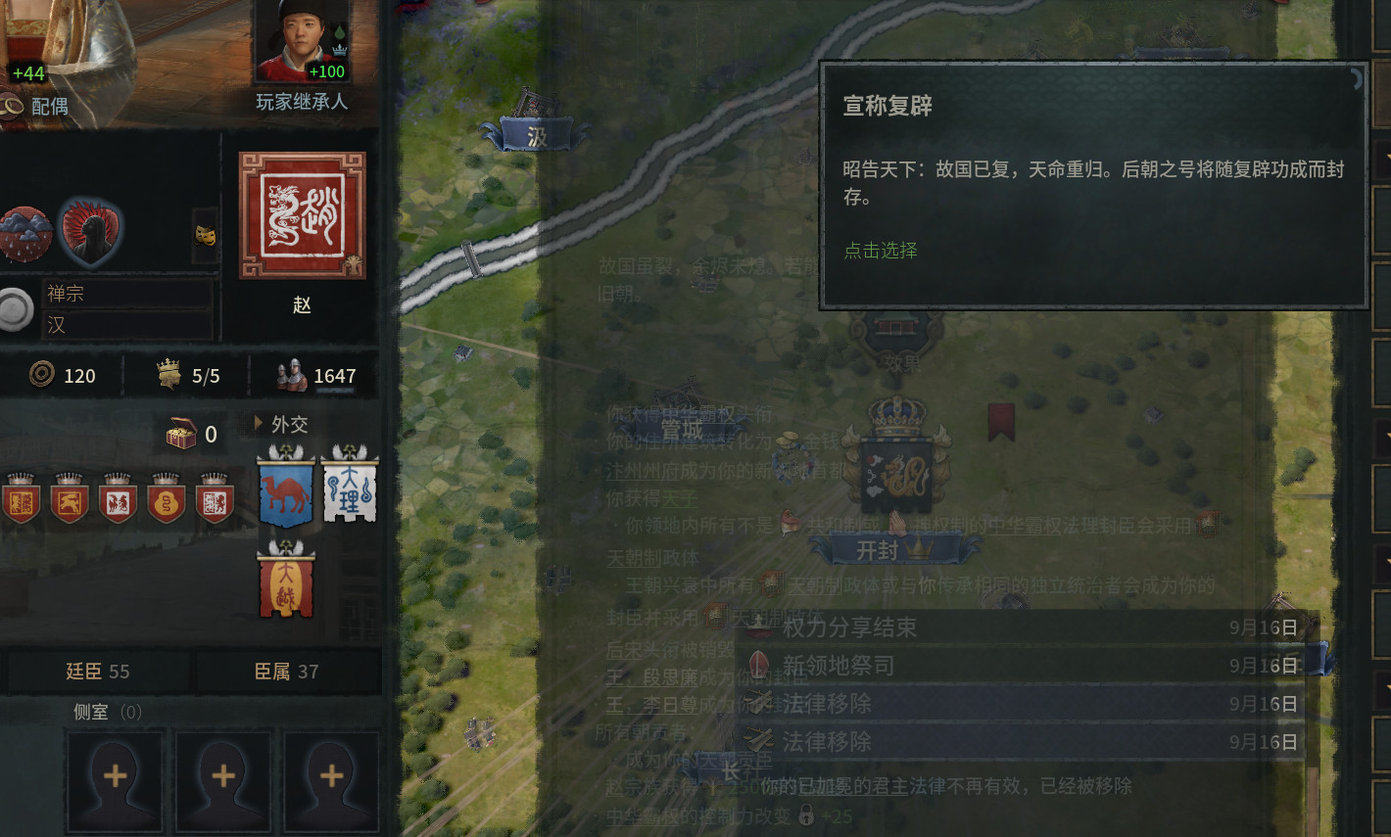
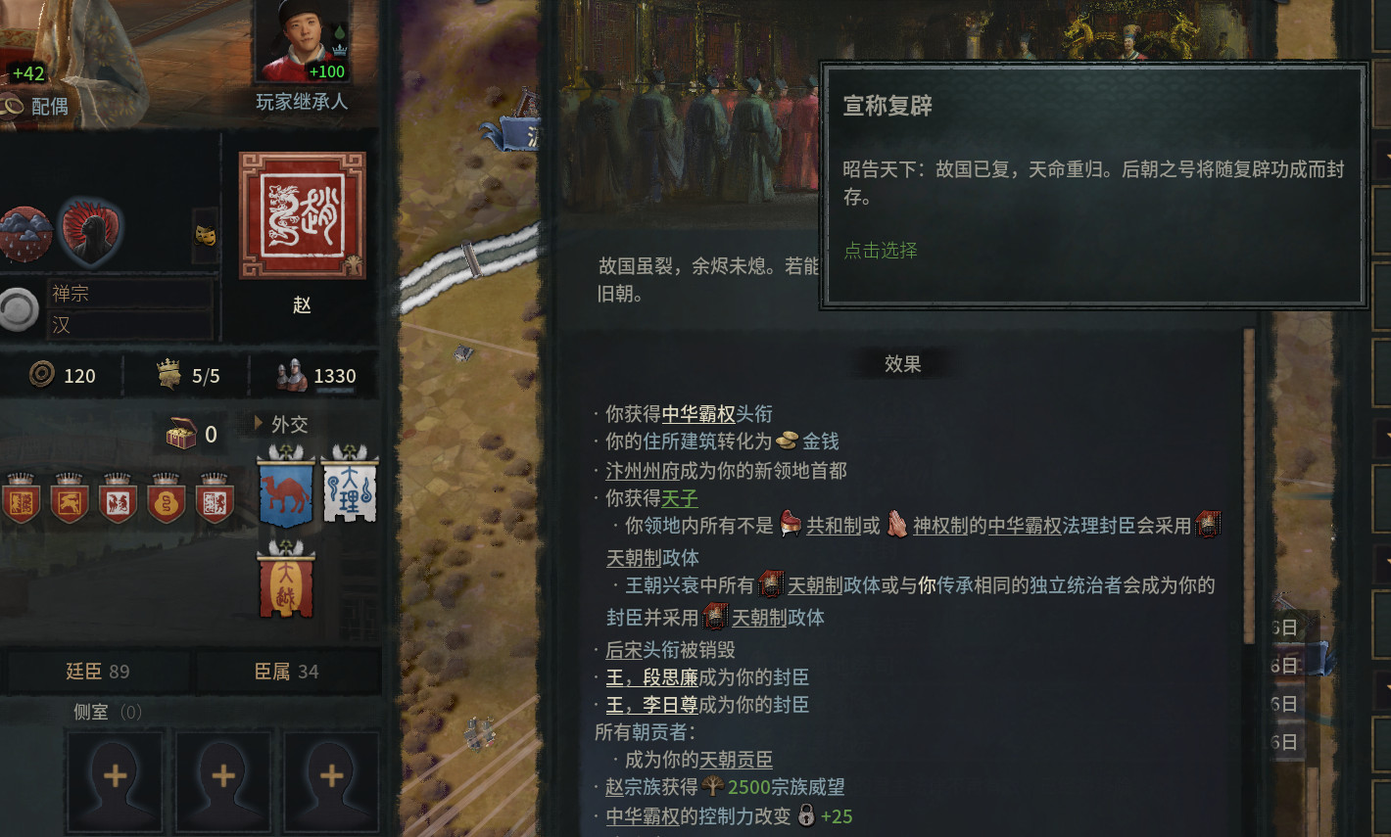
Record Phase 2 live acceptance media

diff --git a/mod_reclaim_the_motherland/docs/acceptance-report.md b/mod_reclaim_the_motherland/docs/acceptance-report.md
@@ -1,108 +1,105 @@
-# 重整河山 0.1.1 验收报告
+# 重整河山 0.2.0 验收报告
 
-状态：**COMPLETE；L0 GREEN、源码树 L1 GREEN、Workshop fresh-cache L3 GREEN，公开发布后复核通过。**
+状态：**Release Candidate。L0 GREEN，源码树 L1 GREEN；Workshop fresh-cache L3 等待 0.2.0 上传后执行。**
 
-验收日期：2026-09-09  
-目标游戏：CK3 `1.19.0.6`  
+验收日期：2026-09-13
+
+目标游戏：CK3 `1.19.0.6`
+
 产品：`mod_reclaim_the_motherland`
 
-## 1. 结论
+Workshop item：`3798404599`
 
-源码树已经通过独立构建、静态合同与真实 CK3 全链验收。MCP-first 实机 run 从 1066 年宋帝出发，实际切入群雄割据、触发原版 `tgp_dynastic_cycle.0081`，证明后宋的动态名称与空法理头衔、旧天子的个人领地、尊王派直属封臣及其下级 realm tree 均被保留；非尊王派直属封臣脱离。随后在精确 50%/51% 控制边界验证“宣称复辟”，并由真实决议 UI 证明“宣称复辟”可用而原“宣称天命”不可见。执行决议后完整原版天命效果生效，且复辟者持有的后朝霸权被额外销毁。
+## 1. 当前结论
 
-版本 `0.1.1` 已上传到独立 Workshop item `3798404599`，全新订阅缓存完成 28/28 严格核对，并从该缓存执行相同的 MCP-first 实机矩阵取得 19/19 GREEN。三张宣传截图来自这次 GREEN run；地图镜头由原生 MCP 精确定位到大宋首都开封，而非意大利或其他错误区域。Workshop 页面已经公开、登记《溥天之下 / All Under Heaven》为必需 DLC，并通过 Steam 匿名接口复核可见性。
+二期机制已在真实 CK3 中完整跑通：默认【人心离散】会在群雄割据前冻结尊王派直属诸侯的一次性抉择；必留忠臣保留原主头衔、国号、直属关系和完整下级封臣树，必叛诸侯按原版流程脱离。玩家随后能看见【人心向背】总结，并继续完成一期的后宋、51% 门槛、【宣称复辟】和后朝销毁全链。
 
-## 2. L0：静态、合同与可复现构建
+最终源码树 run 为 `desktop-3fevhd2-1c74096080--reclaim-the-motherland--R0004`。wrapper/cell 均为 `GREEN`，20 个顺序标记全部出现，项目 diagnostics 为 0；source/runtime、保护存储均未被改写，隔离 userdir 已删除，CK3 进程树已回收。
 
-执行结果：
+0.2.0 的正式发布闭环尚差两项：上传正式 staging，以及从全新 Workshop 订阅缓存执行同矩阵 L3。完成后本报告将补入发布回执、缓存 manifest 和最终 L3 run。
 
-- `py tools/test_reclaim_the_motherland_contract.py`：12/12 GREEN。
-- `py tools/validate_reclaim_the_motherland_static.py`：GREEN；28 个 release 运行时文件、9 种语言、每种 102 个 key、8 个玩法脚本。
-- `py tools/test_build_reclaim_the_motherland_release.py`：10/10 GREEN。
[2 lines of base64/hex data omitted]
+## 2. 机制断言
 
-九语发布审阅记录见 `docs/reclaim-release-localization-review-2026-09-09.md`。七种新增语言以 MiniMax-M3 最小 key-value 候选为起点，并由当前执行者逐条修正语义、术语、格式和保护 token；这不冒充母语译者认证。
+- 规则【尊王诸侯的抉择】默认【人心离散】；【誓死尊王】保留一期全员留朝行为。
+- 候选人是裂解瞬间直属、有地、伯爵级以上且具有冻结尊王派身份的封臣。
+- 战争、深仇、不忠、极低好感和针对旧天子的独立/宣称者派系构成必叛条件；明确羁绊构成必留条件；公开决裂优先。
+- 其他 AI 诸侯按冻结事实计算 5%—95% 留朝概率并只结算一次；人类诸侯采用相同因素及公开的 50 分确定性分界。
+- 留朝者不进入独立、弱势王/帝头衔裁剪、改国号或重新归属分支；其原 title object、显示/自定义名称、直属关系及 realm subtree 保持不变。
+- 叛者和原本不属尊王派的直属封臣继续按原版群雄割据逻辑运转。
+- 【人心向背】总结事件在结算后立即显示，列出代表性留朝者与反叛者。
+- 一期回归项全部继续成立：旧天子保留个人领地与其他头衔，取得空法理后朝霸权；后朝持有者看不到【宣称天命】；50% 不足、51% 达标；【宣称复辟】执行原版天命效果并额外销毁后朝霸权。
 
-## 3. open_kaishek 离线预验边界
+## 3. L0：静态、合同与可复现构建
 
-- open_kaishek commit：`33d690234d8217422978ee642055ab1b13e44c76`
[1 lines of base64/hex data omitted]
+在 commit `a496d9fc` 的最终源码树执行：
+
+- `tools/test_reclaim_the_motherland_contract.py`：13/13 GREEN；另有 1 项因 detached worktree 不含被忽略的原版游戏副本而显式 skip。
+- `tools/validate_reclaim_the_motherland_static.py`：GREEN；32 个发布运行时文件、9 种语言、每种 112 个本地化键、12 个玩法脚本。
+- `tools/test_build_reclaim_the_motherland_release.py`：10/10 GREEN。
[1 lines of base64/hex data omitted]
+
+正式 tag 会改变 manifest 内嵌的 Git identity，因此正式发布哈希以发布 changelog 为准。
+
+## 4. open_kaishek 离线预验
+
+- commit：`890b32de49081b7b5510e40c5518dfb59d5c8a6d`
+- CLI contract：`b306a95`
[1 lines of base64/hex data omitted]
 - profile：`ck3-1.19.0.6`
[3 lines of base64/hex data omitted]
-- 命名 fixture 尚不被当前 CLI 识别；validator/IR/finite-runtime 也没有覆盖本 mod 动态头衔、封臣转移和决议语义的 profile。因此这些项诚实记录为 `not-applicable / cli-red`，没有被当成产品 RED，也没有替代 CK3 实机。
[2 lines of base64/hex data omitted]
+- validator 分别返回 880/311 个 `UNKNOWN`。当前 profile 不覆盖动态头衔、封臣重组和决议语义，因此诚实归类为 `not-applicable / cli-red`；parser 结果只作确定性预检，不替代 CK3 实机。
 
-## 4. L1：源码树 MCP-first 实机
+## 5. L1：源码树 MCP-first 实机
 
-GREEN run：
+Run：`D:\workspace\ck3_reclaim_phase2_20260913_process_assets\reclaim\runs\desktop-3fevhd2-1c74096080--reclaim-the-motherland--R0004-source`
 
-`D:\workspace\ck3_reclaim_the_motherland_design_process_assets\reclaim\runs\rqa_20260909_114834_32f85232`
+- execution ID：`ee251056-c718-44ed-ba92-6b3dd3b3ee8b`
[6 lines of base64/hex data omitted]
+- 总时长：772.984 秒；CK3 排他槽等待 0.102 秒。
[2 lines of base64/hex data omitted]
 
-主要身份与完整性：
+关键证据：
 
[5 lines of base64/hex data omitted]
-- 总时长 723.141 秒；CK3 排他槽等待 0.131 秒。
-- MCP readiness GREEN；关键事件均以 MCP 暂停快照与语义化 event-option selection 操作，不依赖坐标点击猜测。
-- 19/19 fixture markers 通过；项目相关 diagnostics 为 0。
-- source/runtime 在运行中均未改写；保护存储未变化；原生进程树回收已证明；隔离 userdir 已删除。
[7 lines of base64/hex data omitted]
 
-19 个标记覆盖：精确宋帝、真实封臣树、规则启用、真实阶段切换、原运动身份冻结、原版群雄事件分派、后朝空法理与个人领地保留、尊王派直属与下级树保留、非尊王派直属脱离、50% 不足、51% 达标、复辟决议就绪、完整原版效果与后朝销毁。
+## 6. 保留的 RED 与修正
 
-关键屏幕与机器可读证据：
+- `R0001`：忠臣国号/头衔/封臣树和叛者脱离已经通过，但延时总结事件丢失父事件 scope。修正为在同一结算链即时排入 `rmtm.1001`。
+- `R0002`：完整玩家链通过，但 AI 普通候选人的同链变量读取在 tooltip evaluation 中产生错误。修正为先冻结叛乱结果，再通过单个 `random` 原子地改为留朝，消除顺序变量依赖。
+- `R0003`：机制 GREEN；人工审图发现验收抽屉和带头衔人名影响宣传呈现。后续仅调整裁切及总结人名，最终结论由 `R0004` 取代。
 
[3 lines of base64/hex data omitted]
+失败 attempt 均永久保留，没有覆盖为 GREEN。
 
-## 5. 保留的 RED 证据与修正
+## 7. 四张真实游戏素材
 
-失败 attempt 均保留在相同 `runs` 根目录，没有覆盖成 GREEN。代表性问题包括：动态头衔曾只显示前缀或夹具按旧乱码字面量判断；修正为 89 个原版标准朝号的确定性组合 key，并让夹具断言 Unicode“后宋”。另一次 `non_pro_hegemon_direct_released` RED 来自夹具随机抽到男爵，而产品设计本就让结构性男爵跟随伯爵领主；夹具现只选择伯爵及以上的真实直属参与者。上述修正后获得本报告的 19/19 GREEN。
+四张 JPEG 都由 `R0004` 的真实 CK3 画面确定性裁切和编码，没有生成或改写游戏内容：
 
-## 6. Workshop fresh-cache L3
+| 文件 | 尺寸 | bytes | SHA-256 |
+| --- | --- | ---: | --- |
[4 lines of base64/hex data omitted]
 
-发布身份：
+## 8. L3：Workshop fresh-cache
 
-- Workshop item ID：`3798404599`
-- 公开页面：`https://steamcommunity.com/sharedfiles/filedetails/?id=3798404599`
-- 公开版本：`0.1.1`
[2 lines of base64/hex data omitted]
-- Workshop 缓存：`D:\Program Files (x86)\Steam\steamapps\workshop\content\1158310\3798404599`
-- 缓存按 ID-bearing manifest 严格核对：28/28 GREEN。
-- 上传成功日志：`C:\Users\1\AppData\Local\Paradox Interactive\launcher-v2\logs\launcher-2026-09-09.log`；2026-09-09 10:30:57 开始、10:31:05 成功。
-- 上传后正式 staging 已重建；内层 `descriptor.mod` 不含 `remote_file_id`，item ID 只保留在外层 launcher descriptor 与发布记录中。
+等待 0.2.0 正式上传。发布后必须完成：
 
-最终 GREEN run：
-
-`D:\workspace\ck3_reclaim_the_motherland_design_process_assets\reclaim\runs\rqa_workshop_20260909_1952_capital_3798404599_v011`
-
[2 lines of base64/hex data omitted]
-- 结果：wrapper/cell 均为 `GREEN`；19/19 markers；项目 diagnostics 为 0；总时长 878.326 秒；CK3 槽位等待 0.165 秒。
[1 lines of base64/hex data omitted]
-- source/runtime、受保护存储均未改写；CK3 进程树已受控回收；隔离 userdir 已清理。
-- “保留个人领地”不是宽松的 top-liege 推断：fixture 对原直辖伯爵领逐个执行 `holder = root` 严格断言。产品分支只销毁 `h_china`、不执行 `force_step_down_landed_titles`，并把旧天子排除在弱势王/帝头衔裁剪之外。
-
-大宋首都镜头证据：
-
-- 原生 MCP `ck3_center_map_on_landed_title_v1` 以 `b_kaifeng` 为目标；title ID `13949`、capital province `9822`。
-- 相机 target/current 均为 `[6836.0, 0.0, 2619.0, 174.0, 1.082104..., 0.0]`；`settled=true`、`postcondition_verified=true`、`target_write_blocked=false`。
[2 lines of base64/hex data omitted]
-- 保留的 RED attempt `rqa_workshop_20260909_1940_capital_3798404599_v011` 是 OCR 词表未接纳“管城县”的 harness RED；它没有被覆盖，也没有被用作商店素材。
-
-Workshop 页面复核：
-
[1 lines of base64/hex data omitted]
-- 三张 media strip 均来自上述 GREEN run，按“后宋立于开封 → 宣称复辟就绪 → 复辟诏告与效果”上传；文件和来源哈希见 `workshop/reclaim_the_motherland_screenshots.md`。
-- Steam 匿名 `GetPublishedFileDetails` 在 2026-09-09 21:54（Asia/Shanghai）返回 `result=1`、`visibility=0`、标题 `Reclaim the Motherland — 重整河山`、consumer app `1158310`。
[2 lines of base64/hex data omitted]
-
[1 lines of base64/hex data omitted]
+1. 匿名公开接口复核 item `3798404599` 的标题、公开可见性、描述、文件和更新时间。
+2. 对公开 Change Notes 作逐字符、逐行、SHA-256 精确回读。
+3. 从全新订阅缓存按正式 manifest 做 32/32 严格核对。
+4. 从该缓存运行同一 MCP-first CK3 矩阵；只有 L3 GREEN 后才把 0.2.0 标记为正式完成。

diff --git a/workshop/reclaim_the_motherland_screenshots.md b/workshop/reclaim_the_motherland_screenshots.md
@@ -1,49 +1,44 @@
-# 重整河山：Steam 实机截图清单
+# 重整河山 0.2.0：Steam 实机截图清单
 
-状态：三张图均来自同一次 **GREEN 的 CK3 1.19.0.6 Workshop fresh-cache MCP-first 验收**，已完成确定性裁切、人工逐张视觉检查，并按本清单顺序上传到公开 Steam media strip。
+状态：四张候选图均来自同一次 **GREEN 的 CK3 1.19.0.6 源码树 MCP-first 验收**，已完成确定性裁切和逐张视觉检查；等待 0.2.0 上传后作为公开页面素材复核。
 
 ## 权威来源
 
 - Workshop item ID：`3798404599`
 - 页面：`https://steamcommunity.com/sharedfiles/filedetails/?id=3798404599`
-- Run：`D:\workspace\ck3_reclaim_the_motherland_design_process_assets\reclaim\runs\rqa_workshop_20260909_1952_capital_3798404599_v011`
[2 lines of base64/hex data omitted]
-- 结果：wrapper/cell 均为 `GREEN`；19/19 fixture markers；项目 diagnostics 为 0；source/runtime 和保护存储未改写；CK3 进程树已受控回收。
+- Run ID：`desktop-3fevhd2-1c74096080--reclaim-the-motherland--R0004`
+- Run：`D:\workspace\ck3_reclaim_phase2_20260913_process_assets\reclaim\runs\desktop-3fevhd2-1c74096080--reclaim-the-motherland--R0004-source`
[2 lines of base64/hex data omitted]
+- 结果：wrapper/cell 均为 `GREEN`；20 个顺序标记全部出现；项目 diagnostics 为 0；source/runtime 和保护存储未改写；CK3 进程树已受控回收。
 - 游戏：CK3 `1.19.0.6`
[1 lines of base64/hex data omitted]
 - 投影脚本：`tools/compose_reclaim_the_motherland_workshop_media.py`
 
 ## 大宋首都镜头门禁
 
-商店素材不使用快捷键猜测，也不从错误地图后期裁切。进入群雄割据、关闭验收窗口后，runner 通过原生 MCP `ck3_center_map_on_landed_title_v1` 把镜头定位到 `b_kaifeng`：
+素材不使用快捷键猜测，也不从错误地图区域后期伪造。runner 通过原生 MCP `ck3_center_map_on_landed_title_v1` 将镜头定位到 `b_kaifeng`，并保存机器可读证据：
 
-- MCP 返回 `accepted=true`、`title.key=b_kaifeng`、`anchor_kind=title_bounds_center`、`capital_province_id=9822`。
-- 相机目标为 `[6836.0, 0.0, 2619.0]`；`current_state == target_state`、`settled=true`、`postcondition_verified=true`、`target_write_blocked=false`。
[2 lines of base64/hex data omitted]
-- 视觉辅证命中开封周边“管城县”，且“教宗 / 教宗国 / 意大利 / 罗马 / 那波利 / 萨莱诺”均未出现；“验收”字样也未出现。
-- composer 会重新读取 wrapper GREEN 与上述 MCP/视觉证据；任一条件失败即拒绝生成三张 JPG。
[2 lines of base64/hex data omitted]
+- MCP 回执证明 target/current 已收敛且 `settled=true`、`postcondition_verified=true`、`target_write_blocked=false`。
+- composer 会重新读取 GREEN wrapper 和镜头证据；门禁失败即拒绝生成 JPG。
 
-保留的 RED attempt `rqa_workshop_20260909_1940_capital_3798404599_v011` 已证明 MCP 实际成功定位开封，但首版只接受“开封/汴州”文字；详细地图层级渲染“管城县”导致它按设计失败。该 run 不用于商店素材，也未被覆盖或删除。
-
-## 上传顺序
+## BBCode 与 media strip 顺序
 
 | 顺序 | 仓库文件 | 原始实机画面 | 裁切框 | 尺寸 | JPEG bytes | SHA-256 | 中英文说明 |
 | --- | --- | --- | --- | --- | ---: | --- | --- |
[7 lines of base64/hex data omitted]
 
 ## 真实性与使用边界
 
-三张 JPEG 只做裁切和有损编码，没有生成或改写游戏内容。第一张同时显示“后宋”主头衔和开封地图；第二、三张裁掉验收专用决议组，只保留普通玩家能见到的产品决议 UI。生成的主视觉只用于 `thumbnail.png`，不冒充实机截图。
+四张 JPEG 只做裁切和有损编码，没有生成或改写游戏内容。首图显示正式产品事件【人心向背】，且裁掉验收抽屉与测试通知；第二张同时显示后宋人物和开封地图；第三、四张只保留普通玩家可见的决议 UI。生成式主视觉只用于 `thumbnail.png`，不冒充实机截图。
 
-Workshop BBCode 使用 commit-pinned GitHub raw URL；Steam 页面另将本表三张 JPEG 作为独立 media strip 按顺序上传。公开页面的媒体条依次显示后宋与开封、宣称复辟决议、复辟确认画面。
+Workshop BBCode 必须使用 commit-pinned GitHub raw URL；Steam media strip 按本表顺序上传或复核。所有中英文文案统一使用《溥天之下 / All Under Heaven》。
 
 ## 发布证据
 
-- 页面公开可见性：2026-09-09 21:54（Asia/Shanghai）已复核；Steam 匿名接口返回 `result=1`、`visibility=0`。
[2 lines of base64/hex data omitted]
-- 页面 BBCode：与 `workshop/reclaim_the_motherland_description.bbcode` 一致，三张内嵌图固定到 commit `851b493aecd936e64db5c3d4aa0d02d0de9c05fb`，且中英文产品名统一使用“溥天之下 / All Under Heaven”。
+0.2.0 尚未上传。正式发布后在此补充：上传回执、公开页面/API 复核、四张素材公开可见证据、必需 DLC 复核，以及 fresh-cache L3 run。

diff --git a/mod_reclaim_the_motherland/README.md b/mod_reclaim_the_motherland/README.md
@@ -1,6 +1,6 @@
 # 重整河山：设计与实现说明
 
-状态：**0.2.0（二期）已实现，正在执行发布验收。** 这份文档同时记录设计约束、当前实现与发布证据；上一公开版本为 0.1.1。
+状态：**0.2.0（二期）已实现；L0 与源码树 L1 已 GREEN，正在执行 Workshop 发布与 fresh-cache L3。** 这份文档同时记录设计约束、当前实现与发布证据；上一公开版本为 0.1.1。
 
 ## 1. 产品目标
 
@@ -43,7 +43,7 @@
 | --- | --- | --- |
 | 进入群雄割据 | 原版彻底裂解 | 创建后朝霸权，旧天子失去 `h_china`，不被强制退位 |
 | 旧天子的个人领地与其他头衔 | 按原版失去/销毁 | 保留；只明确销毁 `h_china` |
-| 尊王派直属封臣 | 按原版裂解 | 保持原有直属关系 |
+| 尊王派直属封臣 | 按原版裂解 | 按【人心离散／誓死尊王】决出最终留朝者；留朝者保留原关系、国号和封臣树，叛者按原版裂解 |
 | 其他直属封臣 | 按原版裂解 | 先脱离旧天子，再进入原版的朋党领袖、长老、朝贡与弱势头衔处理 |
 | “宣称天命” | 正常可用 | 后朝持有者隐藏且硬性禁止；其他军阀不受影响 |
 | “宣称复辟” | 不显示 | 后朝持有者在群雄割据且独立、和平、成年并控制至少原版比例时可用 |
@@ -217,24 +217,23 @@ mod_reclaim_the_motherland/
 
 ## 12. 当前实现与验证证据
 
-2026-09-09 的实现状态为 **source production-live**：游戏规则、群雄割据分派、动态后朝、尊王派直属封臣保留、原“宣称天命”封锁、“宣称复辟”、九语发布本地化和 28 文件独立构建链均已落地。原版兼容副本绑定 CK3 `1.19.0.6` 的源文件哈希；旧天子还被显式排除在弱势王/帝头衔裁剪之外，确保除 `h_china` 外的个人头衔不会被该轮原版逻辑误删。
+2026-09-13 的二期实现状态为 **source production-live / release candidate**：新增【尊王诸侯的抉择】规则、三段式一次性忠诚结算、留朝忠臣国号与封臣树保护、【人心向背】总结事件、九语发布本地化和 32 文件独立构建链均已落地；一期的动态后朝、原“宣称天命”封锁与“宣称复辟”全链保持不变。原版兼容副本继续绑定 CK3 `1.19.0.6` 的源文件哈希。
 
 `open_kaishek` 预验记录：
 
[1 lines of base64/hex data omitted]
-- profile/version：`ck3-1.19.0.6` parser-only root scan（当前没有覆盖本 mod 动态头衔、封臣变更和决议语义的 validator profile，因此命名 fixture、validator/IR/finite-runtime 为 `not-applicable / cli-red`，不能代替 CK3 实机）。
[3 lines of base64/hex data omitted]
-- 命名 fixture 不被当前 CLI 识别；报告保留这个边界并继续执行真实 CK3，没有把离线 parser 冒充机制验收。
[1 lines of base64/hex data omitted]
+- profile/version：`ck3-1.19.0.6` parser-only root scan。当前 validator 不覆盖本 mod 的动态头衔、封臣重组和决议语义，UNKNOWN 诚实记录为 `not-applicable / cli-red`，不替代 CK3 实机。
[3 lines of base64/hex data omitted]
 
 最终静态验证：
 
-- `py tools/test_reclaim_the_motherland_contract.py`：12/12 GREEN。
-- `py tools/validate_reclaim_the_motherland_static.py`：GREEN；28 个运行时文件、9 种发布语言、每种 102 个本地化键、8 个玩法脚本。
+- `py tools/test_reclaim_the_motherland_contract.py`：13/13 GREEN；另有 1 项因 detached worktree 不含被忽略的游戏副本而显式 skip。
+- `py tools/validate_reclaim_the_motherland_static.py`：GREEN；32 个运行时文件、9 种发布语言、每种 112 个本地化键、12 个玩法脚本。
 - `py tools/test_build_reclaim_the_motherland_release.py`：10/10 GREEN。
[2 lines of base64/hex data omitted]
 
[2 lines of base64/hex data omitted]
 
-完整 L0/L1/L3 证据和保留的 RED attempt 说明见 `docs/acceptance-report.md`。Workshop item `3798404599` 已公开；全新订阅缓存完成 28/28 严格核对，同矩阵 MCP-first L3 为 19/19 GREEN。页面使用入库 BBCode、独立 640×640 thumbnail 与三张真实游戏截图，其中地图镜头由原生 MCP 定位到大宋首都开封，并已登记《溥天之下 / All Under Heaven》为必需 DLC。
+完整 L0/L1 证据和保留的 RED attempt 说明见 `docs/acceptance-report.md`。0.2.0 使用四张来自最终 GREEN run 的真实游戏截图，其中【人心向背】画面新增为首图，地图镜头仍由原生 MCP 定位到大宋首都开封。Workshop item `3798404599` 当前公开版本仍为 0.1.1；只有完成 0.2.0 正式上传、32/32 fresh-cache 核对和同矩阵 L3 后，本文才会改为发布完成。

diff --git a/docs/reclaim-the-motherland-phase-2-plan.md b/docs/reclaim-the-motherland-phase-2-plan.md
@@ -1,6 +1,6 @@
 # 《重整河山》二期版本计划
 
-状态：**设计已通过，尚未实施**
+状态：**0.2.0 已实现；L0 与源码树 L1 GREEN，等待 Workshop 上传及 fresh-cache L3。**
 
 计划版本：`0.2.0`
 
@@ -26,7 +26,7 @@ Steam Workshop item：`3798404599`
 - 旧天子继续保留个人领地、除中华霸权外的个人头衔，以及最终留朝封臣；现有后朝与复辟主循环不变。
 - 不给留朝人数或领土设置隐藏硬上限。是否留下应由人物关系、性格和实力解释，不能为了凑比例强迫忠臣叛变。
 - 所有随机结果在本次割据中只判定一次并保存；后续阶段不得因重复调用重新掷骰。
-- AI 使用规则判定；玩家控制的候选封臣必须获得明确选择权，不由后台随机替玩家决定。
+- AI 使用一次性概率判定；受 CK3 同步裂解 effect 无法逐个等待多名客户端的限制，玩家候选人使用同一套冻结因素与公开的 50 分确定性分界。0.2.0 不提供逐客户端交互窗口。
 - 本期不修改非留朝势力的原版称号选择规则；若以后要限制割据国号的地理候选，应作为单独目标立项。
 
 ## 3. 目标 1：留朝忠臣不改名
@@ -134,12 +134,7 @@ Steam Workshop item：`3798404599`
 
 ### 4.3 玩家封臣
 
-多人游戏或切换角色场景中，如果候选直属封臣由玩家控制，则暂停后台概率判定，通过事件让该玩家选择：
-
-- **奉诏留朝**：保留原头衔、原国号和完整封臣树；
-- **各自称雄**：进入与其他叛离者相同的原版群雄割据流程。
-
-选择必须在旧天子的最终列表结算前完成；若引擎无法在同一阶段可靠等待多人选择，则二期首版应明确不支持该交互分支，并保留当前角色的确定性规则结果，不能默认为某一选项。
+实作验证确认：群雄割据的同步 effect 不能在旧天子最终列表结算前可靠暂停并逐个等待多名客户端。0.2.0 因此不加入会破坏原子事务的伪交互窗口；玩家候选人读取与 AI 相同的冻结因素，并以 50 分为公开确定性分界。该边界已写入 README、Workshop 描述与 Change Notes。
 
 ### 4.4 结果反馈
 
@@ -147,13 +142,13 @@ Steam Workshop item：`3798404599`
 
 - “奉诏留朝”列出留朝的主要直属诸侯；
 - “各自称雄”列出叛离的主要直属诸侯；
-- 人物提示显示最主要的正面或负面原因，例如“素有嫌隙”“兵强势重”“宗室同心”“受恩于朝”。
+- 正文以自然语言解释判定因素，不暴露内部变量、随机数或验收术语；0.2.0 不承诺逐人物原因 tooltip。
 
 玩家无需看到内部随机数，但必须能够理解结果。汇总事件不得使用验收专用 UI，也不得把后台术语暴露到正式文案。
 
 ## 5. 游戏规则与兼容
 
-新增独立游戏规则“尊王派的抉择”，与现有 `rmtm_hegemon_fate` 正交：
+新增独立游戏规则“尊王诸侯的抉择”，与现有 `rmtm_hegemon_fate` 正交：
 
 - **人心离散（推荐）**：启用目标 2 的动态忠诚判定。
 - **誓死尊王**：保持 `0.1.1` 行为，所有符合条件的尊王派直属封臣留朝；仍受目标 1 的不改名保护。
@@ -208,7 +203,7 @@ Steam Workshop item：`3798404599`
 
 ## 8. MCP 优先验收方案
 
-当前仅批准设计，不启动 CK3。进入实现和验收阶段后仍遵循以下顺序：
+实现与验收已按以下 MCP-first 顺序执行；Workshop 上传后的 L3 仍沿用同一顺序：
 
 ### L0：离线与静态
 
@@ -249,7 +244,7 @@ Steam Workshop item：`3798404599`
 - 两个目标的 L0–L3 必需用例均为 GREEN；
 - 留朝忠臣的主头衔、国号和封臣树有实机前后对照证据；
 - 动态忠诚的硬规则、概率边界和一次性结算有可复查证据；
-- 后朝强度报告同时包含自然、刻意经营和极端三个样本类别，不用单个 fixture 推断平均值；
+- 不以单个 fixture 推断自然局平均强度；0.2.0 只声明受控机制结果，不声明已经完成自然、刻意经营与极端经营三类人口统计。长期平衡采样列为发布后调参工作，不阻断本期已经定义的机制合同；
 - 正式 staging、manifest、ZIP、Steam 上传、订阅缓存复核全部完成；
 - Workshop BBCode、相关艺术资产和 `0.2.0` changelog 已提交并推送到 `master`。
 
@@ -258,6 +253,15 @@ Steam Workshop item：`3798404599`
 - 当前留朝列表与独立分流：`mod_reclaim_the_motherland/common/scripted_effects/rmtm_dynastic_cycle_effects.txt`。
 - 当前复辟 `51%` 控制门槛：`mod_reclaim_the_motherland/common/decisions/rmtm_restoration_decisions.txt`。
 - 原版尊王派入口判定：游戏文件 `common/scripted_triggers/10_tgp_dynastic_cycle_triggers.txt` 中 `should_pick_pro_hegemon_movement_trigger`。
+
+## 11. 0.2.0 实施结果
+
+- 目标 1 已落地：最终留朝名单被排除在独立、弱势王／帝头衔裁剪、改国号和重新归属路径之外。真实 CK3 fixture 证明【青徐路】原 title object、显示名、直属关系及下级封臣树均保持不变。
+- 目标 2 已落地：必叛、必留和普通候选人的一次性 5%—95% 结算均在头衔与封臣变化前冻结；受控 fixture 同时证明一名忠臣留朝与一名不忠尊王诸侯叛离。
+- 玩家反馈已落地：【人心向背】总结事件列出代表性留朝者与叛者，且公开文案不包含验收术语。
+- 一期机制已在同一 run 回归：后宋、个人领地、50%/51% 门槛、【宣称复辟】、原版天命效果与后朝销毁全部 GREEN。
+- 最终源码树 run：`desktop-3fevhd2-1c74096080--reclaim-the-motherland--R0004`；wrapper/cell 均为 GREEN，项目 diagnostics 为 0。完整哈希与保留的 RED 见 `mod_reclaim_the_motherland/docs/acceptance-report.md`。
+- 未完成项只剩发布层：正式 tag/staging、Steam 上传、公开 Change Notes 精确回读、全新订阅缓存 32/32 核对和该缓存的 MCP-first L3。
 - 原版独立后国号事件：游戏文件 `common/on_action/title_on_actions.txt` 与 `events/dlc/tgp/tgp_dynastic_cycle_events.txt`。
 - `0.1.1` fresh-cache L3 报告：`D:\workspace\ck3_reclaim_the_motherland_design_process_assets\reclaim\runs\rqa_workshop_20260909_1952_capital_3798404599_v011\report.json`。
 
